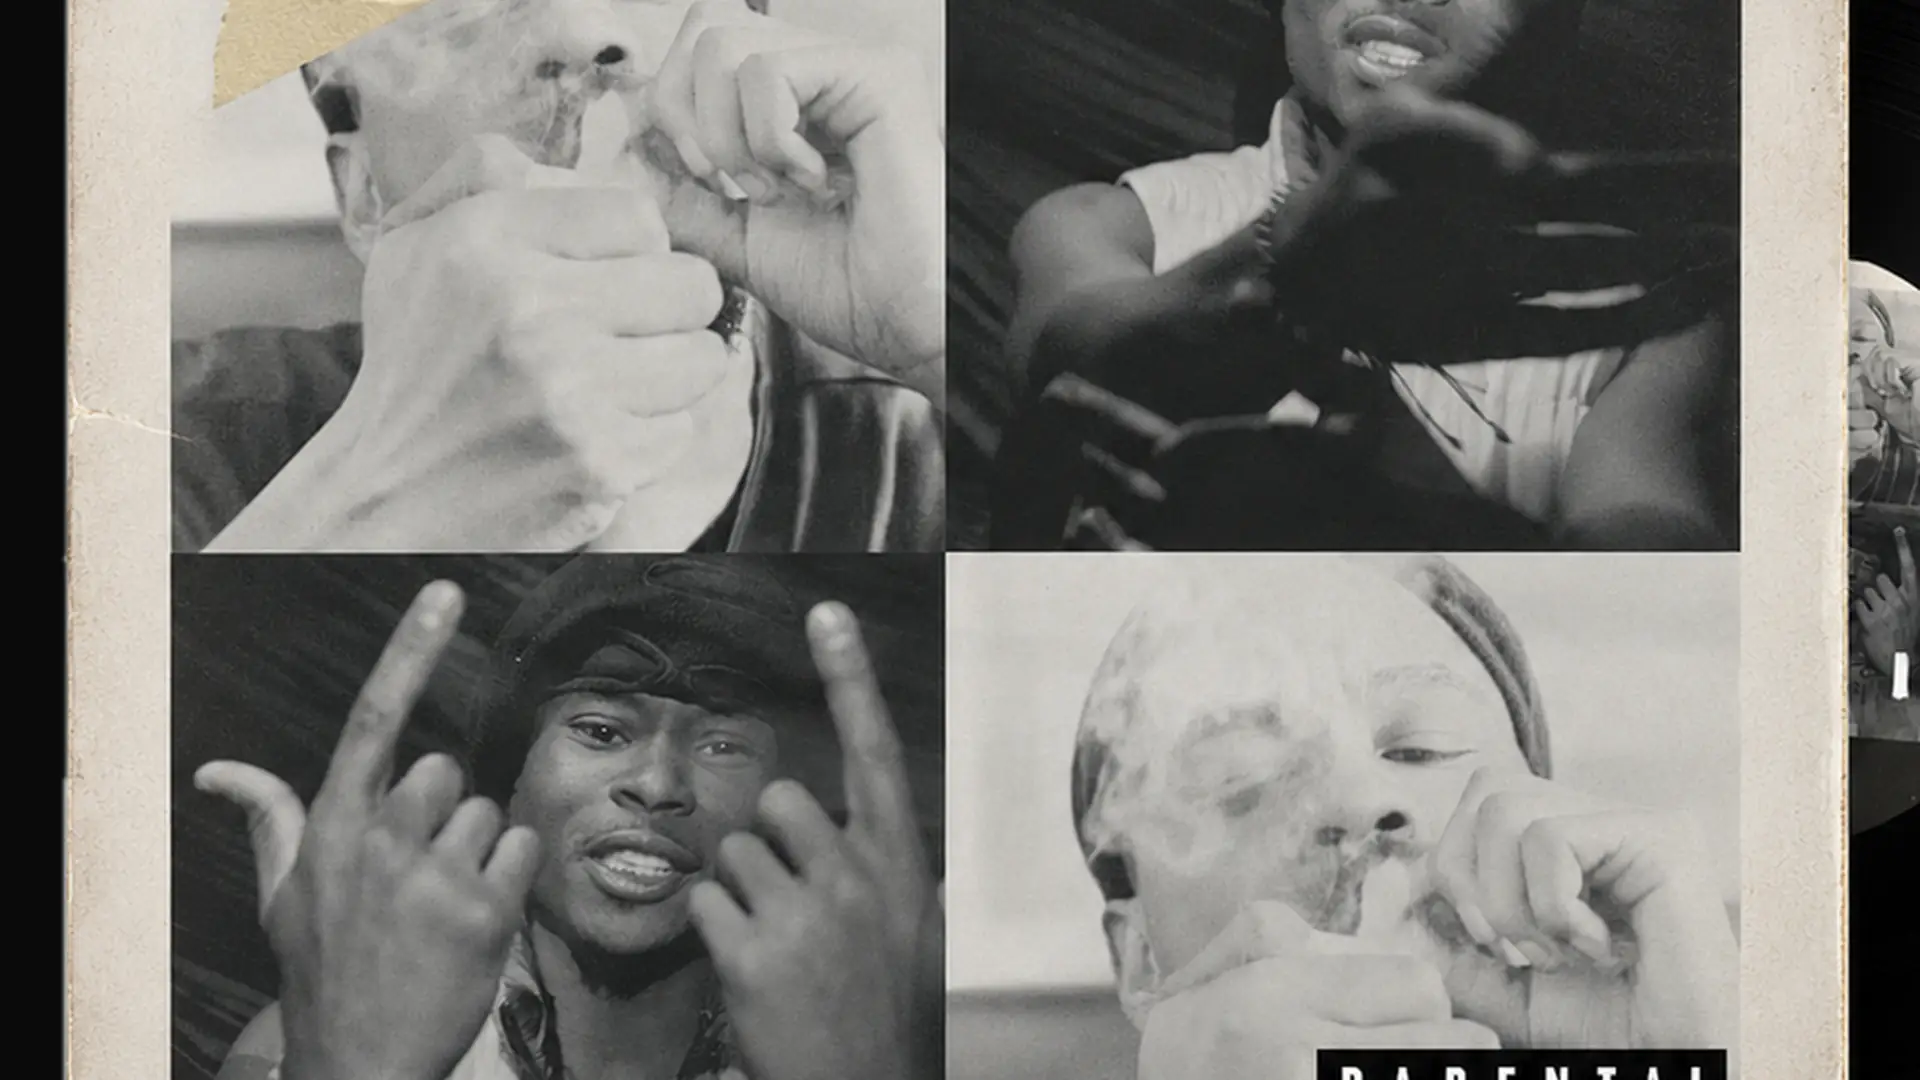
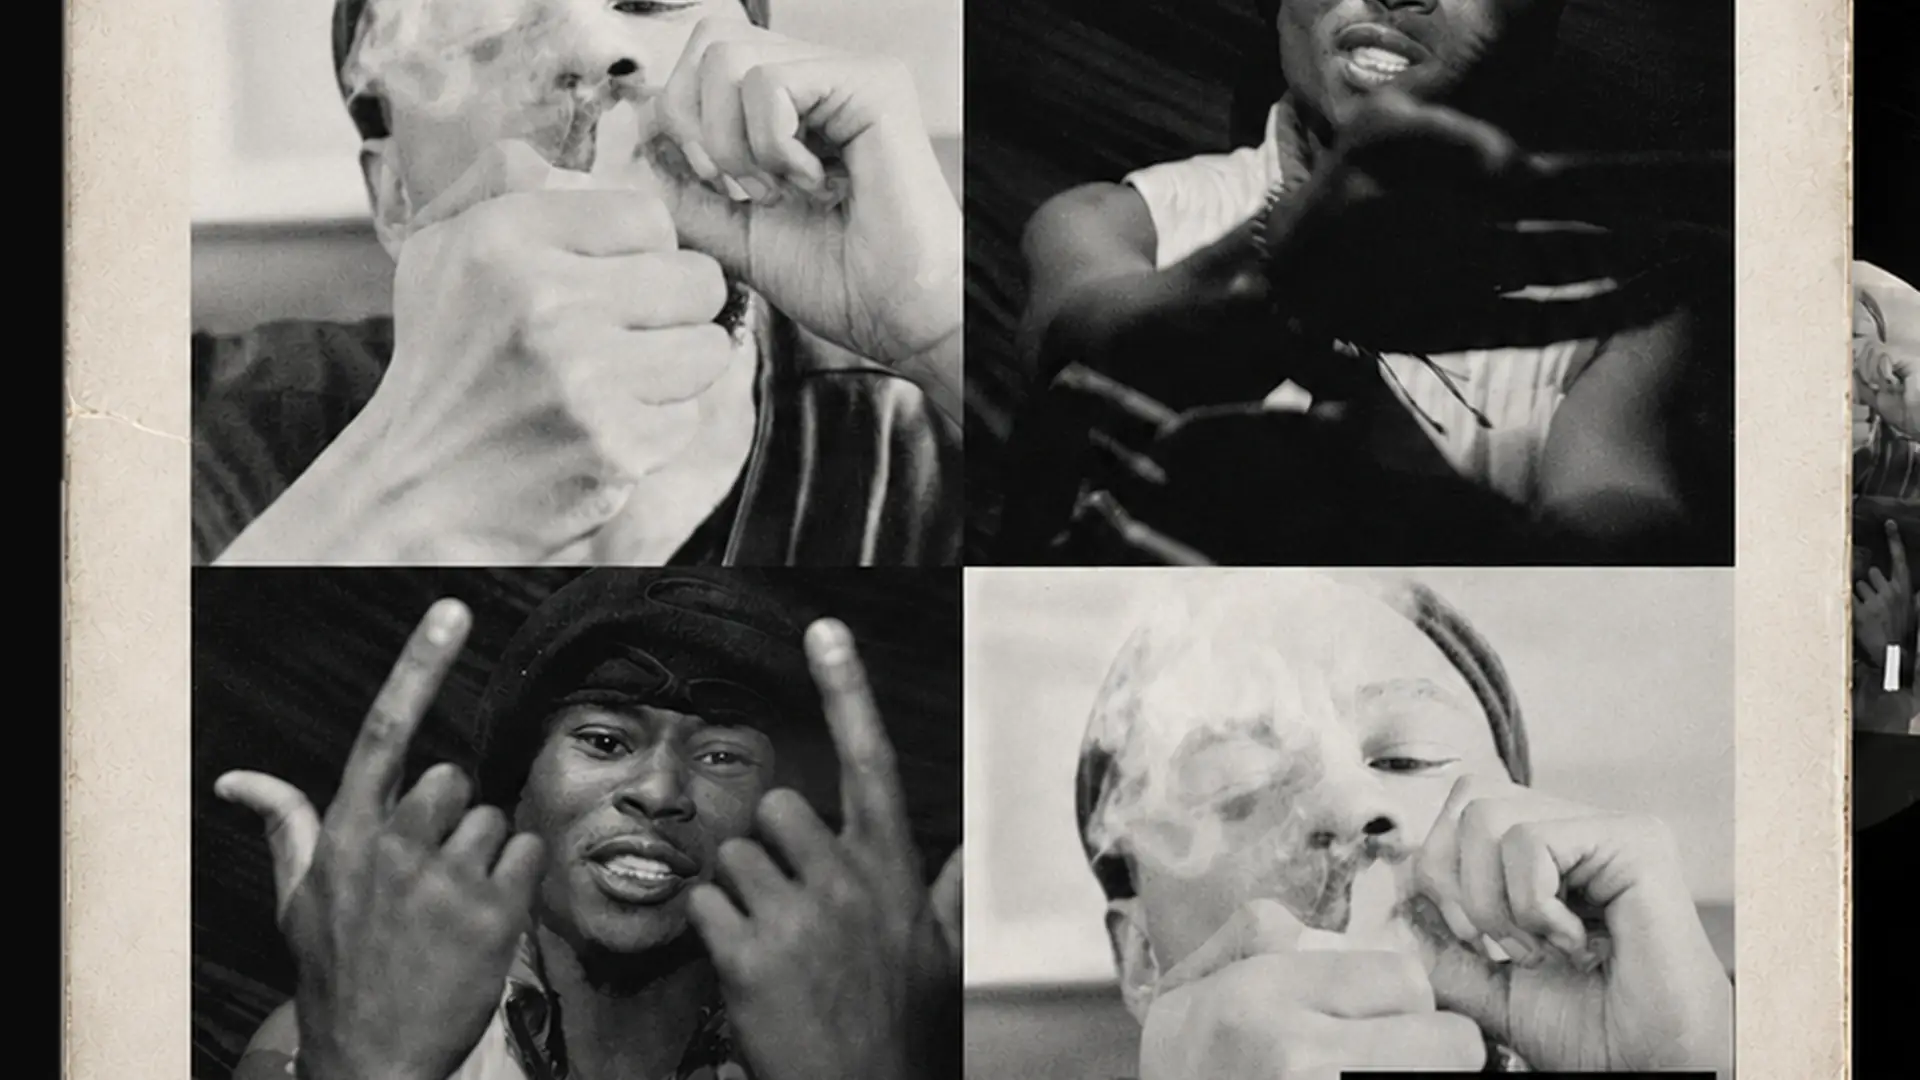
Update the Smokin N Drinkin artwork
New cover supplied by the label. The layout is unchanged — the same
four-photo grid — but the credit line differs: the top-right
"PESOTHEPESSIMIST" is gone and the sleeve now reads "EAZY OGEE" alone.

Re-ran tools/prep-hero-art.py, which regenerated the keyed sleeve, the
square release cover and the derived hero backdrop. The other eight
releases came out byte-identical, so only this release's files move.

The keyed art is one pixel taller than before, so index.html's declared
height goes 865 -> 866 to keep it matching the asset.

diff --git a/index.html b/index.html
@@ -239,7 +239,7 @@
           <div class="hero-slide__art">
             <img class="hero-slide__art-img" src="images/hero/smokin-n-drinkin-art.webp"
                  alt="Smokin N Drinkin by Eazy OGee and Wazza OGee — vinyl release"
-                 width="1100" height="865" loading="lazy" />
+                 width="1100" height="866" loading="lazy" />
           </div>
         </div>
       </article>
